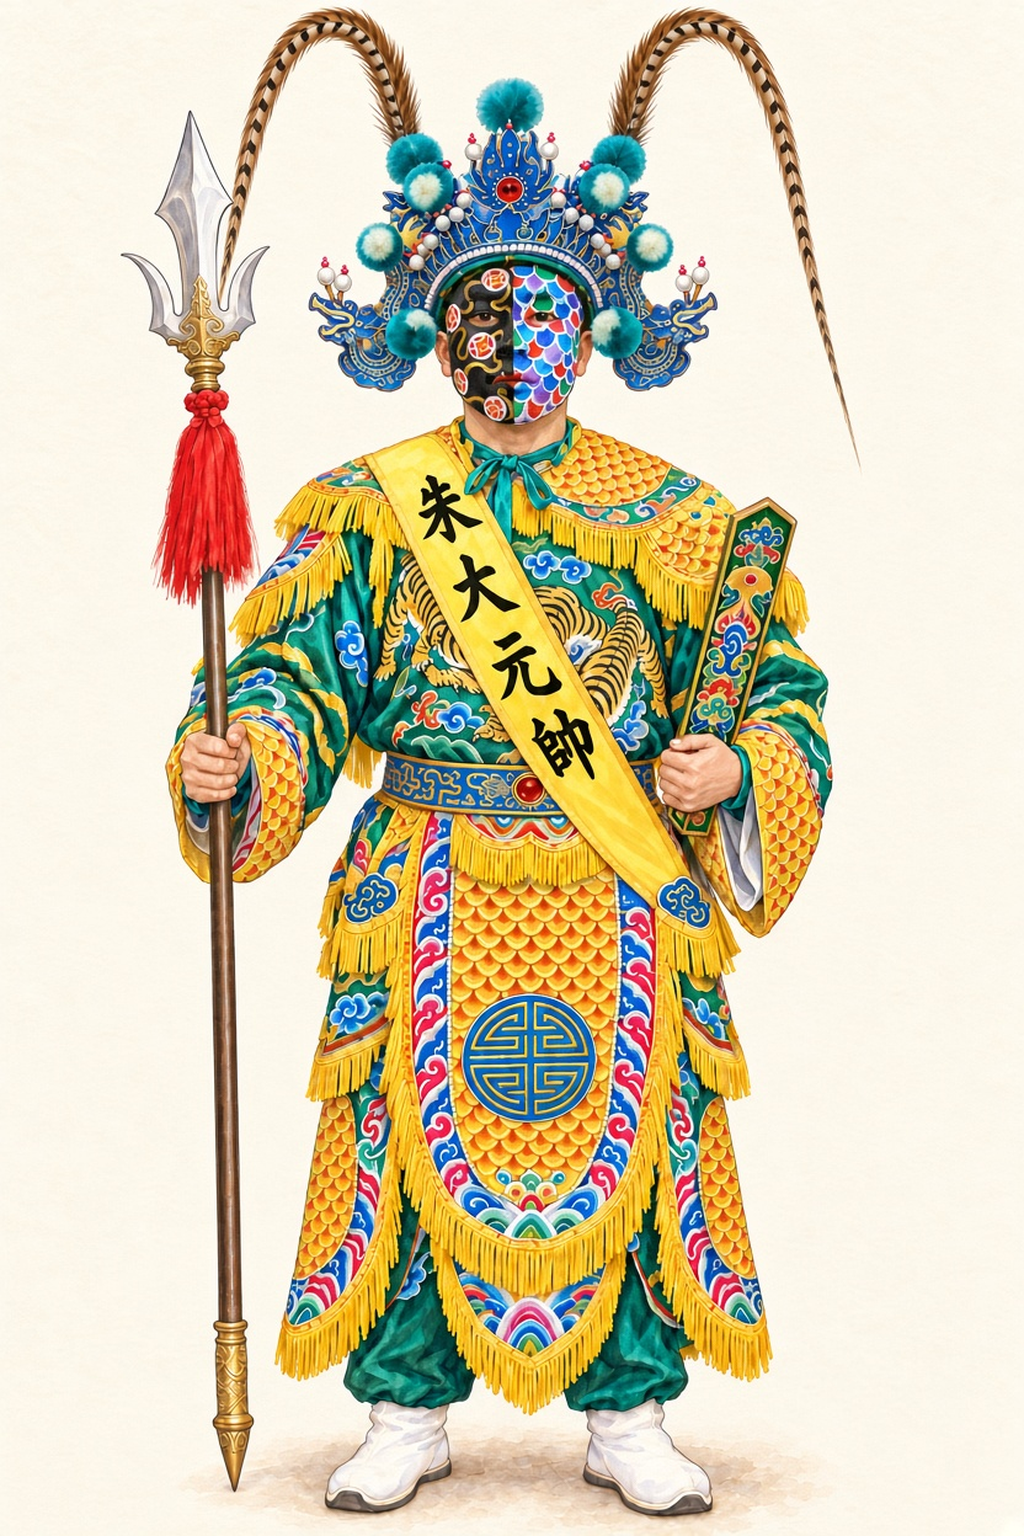
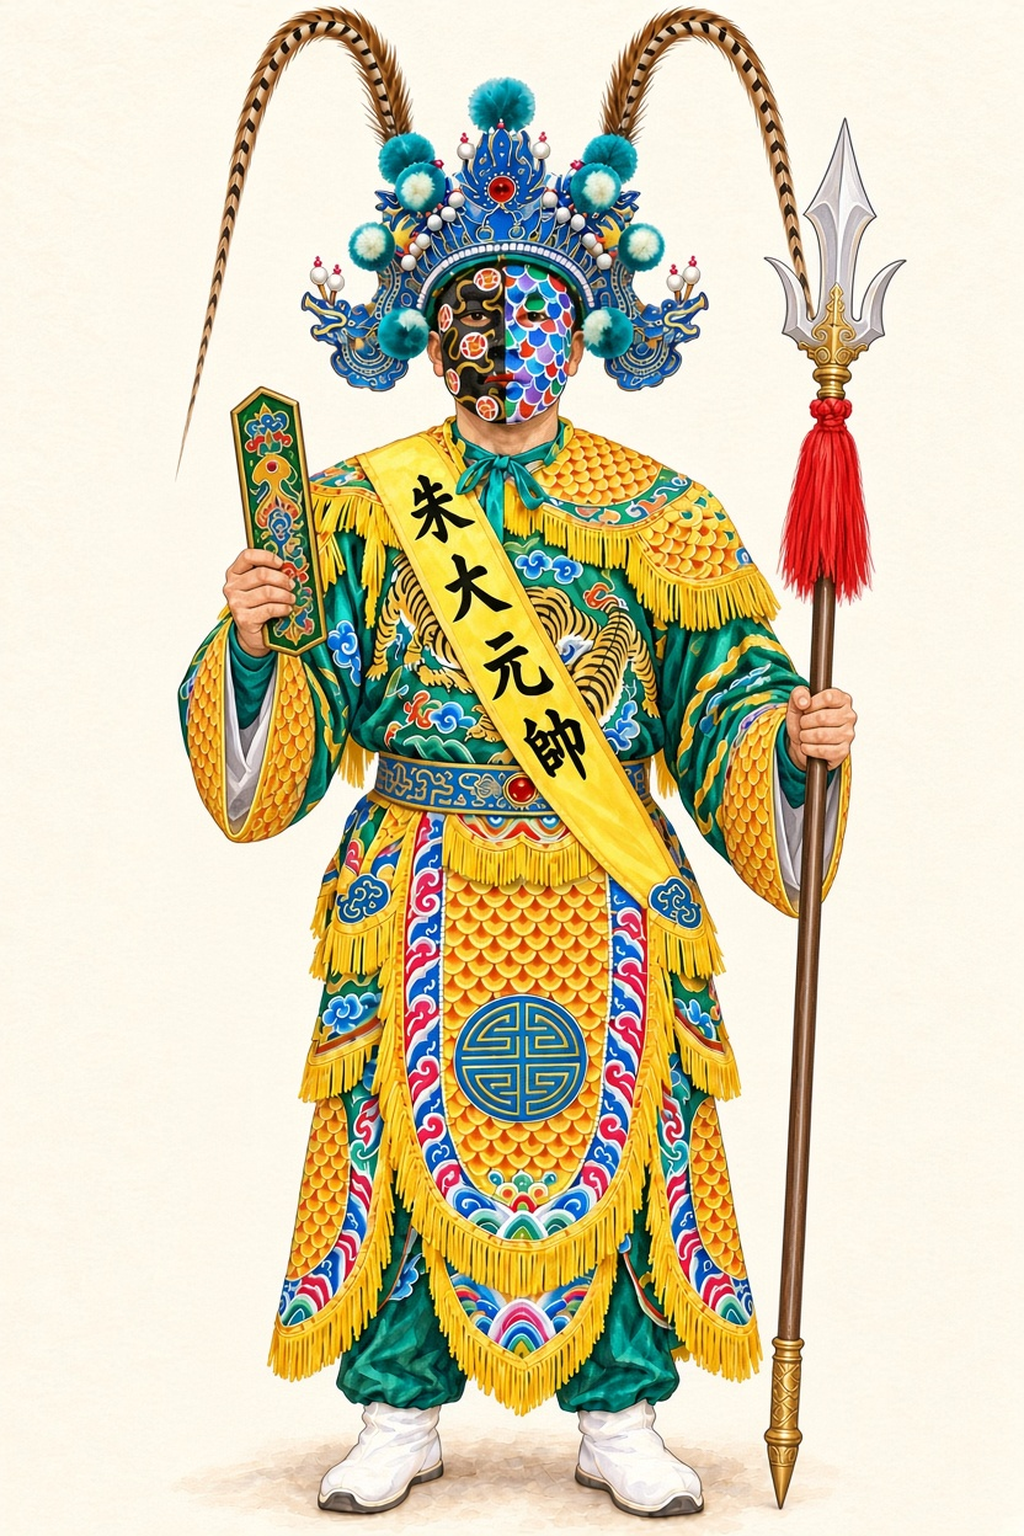
十三金甲戰帥：更新朱、沈插畫（v92），依組別與左右站位重新排列，林大元帥居中

diff --git a/site.css b/site.css
@@ -120,13 +120,15 @@ img,svg{display:block;max-width:100%}[hidden]{display:none!important}
 .article-figures>li:nth-child(3n) .article-figure--portrait figcaption{border-top-color:var(--coral)}
 .article-figure-group{margin-top:32px}
 .article-body .article-figures--grouped{grid-auto-rows:1fr}
+.article-body .article-figure .article-figure-slot{font-size:13px;line-height:1.5;margin:0 0 4px;color:var(--ink);opacity:.75;letter-spacing:.06em}
+.article-body .article-figures--slots.article-figures--n3>li.is-center{grid-column:1/-1;order:-1;justify-self:center;width:calc(50% - 6px)}
 .article-figures>li:nth-child(3n+2) img{border-bottom-color:var(--blue)}
 .article-figures>li:nth-child(3n) img{border-bottom-color:var(--coral)}
 .article-figure figcaption{padding:12px}
 .article-body .article-figure :is(h3,h4){font-size:18px;font-weight:400;line-height:1.5;margin:0 0 8px;text-wrap:balance}
 .article-body .article-figure p{font-size:14px;line-height:1.85;margin:0;word-break:normal;text-wrap:pretty}
 .article-body .article-figure p+p{margin-top:8px}
-@media(min-width:768px){.article-body .article-figures{grid-template-columns:repeat(3,minmax(0,1fr));gap:16px}.article-figure figcaption{padding:16px}.article-body .article-figure :is(h3,h4){font-size:22px}.article-body .article-figure p{font-size:16px}}
+@media(min-width:768px){.article-body .article-figures{grid-template-columns:repeat(3,minmax(0,1fr));gap:16px}.article-body .article-figures--slots.article-figures--n3>li.is-center{grid-column:auto;order:0;width:auto;justify-self:stretch}.article-body .article-figures--slots.article-figures--n2{grid-template-columns:repeat(2,minmax(0,1fr));max-width:calc((100% - 32px)/3*2 + 16px);margin-inline:auto}.article-figure figcaption{padding:16px}.article-body .article-figure :is(h3,h4){font-size:22px}.article-body .article-figure p{font-size:16px}}
 @media(min-width:768px) and (max-width:1023px){.article-layout:has(.article-figures){grid-template-columns:minmax(0,1fr);gap:32px}.article-layout:has(.article-figures) .article-toc{position:static}}
 
 .page-heading>div,.chapter-card,.card-copy,.ritual-stage>div{min-width:0}
